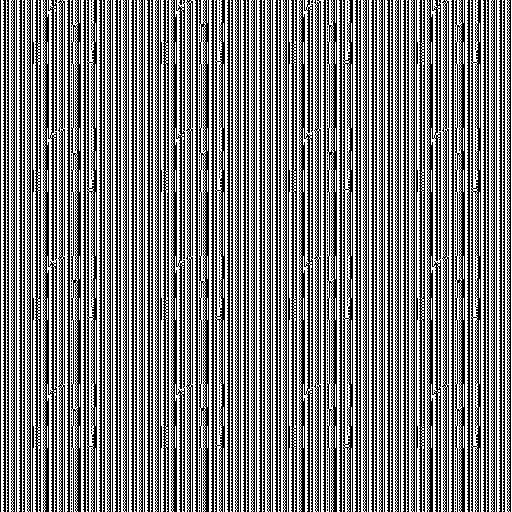
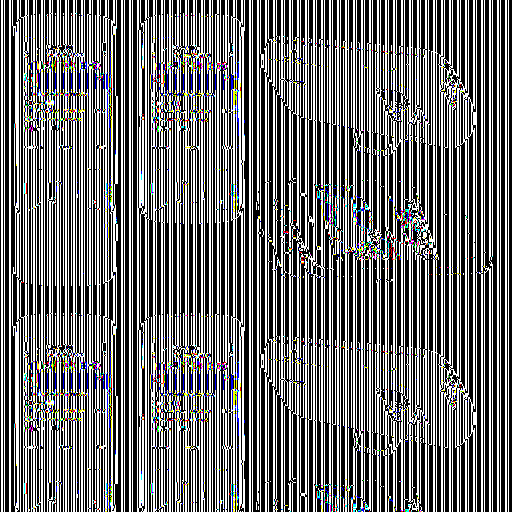
debugging encryption and decryption

diff --git a/Tubes1/src/tubes/ImageHelper.java b/Tubes1/src/tubes/ImageHelper.java
@@ -89,9 +89,7 @@ public class ImageHelper {
             }
         }
         Vigenere256 vig = new Vigenere256();
-        System.out.println(key);
         String plainteks = vig.decrypt(cipherteks,key);
-        System.out.println(plainteks);
         String bits="";
         for (int i = 0; i < plainteks.length(); i++) {
             bits+=String.format("%8s", Integer.toBinaryString(plainteks.charAt(i))).replace(' ', '0');
@@ -104,10 +102,10 @@ public class ImageHelper {
         for (int row = 0; row < pixels.length; row++) {
             for (int col = 0; col < pixels[row].length; col++) {
                 if(bits.charAt(init)=='1'){
-                    pixels[row][col] = 0;
+                    pixels[row][col] = 255;
                 }
                 else{
-                    pixels[row][col] = 255;
+                    pixels[row][col] = 0;
                 }
                 init++;
             }
@@ -154,11 +152,16 @@ public class ImageHelper {
                 init++;
             }
         }
+        System.out.println("init-1 : "+init);
         String cipherteks = vig.encrypt(plainteks,key);
-        System.out.println(plainteks);
+//        System.out.println(plainteks);
+//        System.out.println(vig.decrypt(cipherteks,key));
         String bits = "";
         for (int i = 0; i < cipherteks.length(); i++) {
-            bits+=String.format("%8s", Integer.toBinaryString(cipherteks.charAt(i))).replace(' ', '0');
+            String c = Integer.toBinaryString(cipherteks.charAt(i));
+            String padding ="0000000000000";
+            String cipher = padding + c;
+            bits+=cipher.substring(cipher.length()-8);
         }
         while(count<=7){
             bits+='0'+(temp[count]-48);
@@ -171,6 +174,8 @@ public class ImageHelper {
                 init++;
             }
         }
+        System.out.println("panjang bits : "+bits.length());
+        System.out.println("banyak pemasukkan : "+init);
     }
     
     public static void setPixels(BufferedImage img, int [][] newRedPixels, int [][] newGreenPixels, int [][] newBluePixels) {

diff --git a/Tubes1/src/algorithms/Vigenere256.java b/Tubes1/src/algorithms/Vigenere256.java
@@ -16,7 +16,7 @@ public class Vigenere256 {
         for (int i = 0; i < text.length(); i++) {
             if (helpers.Character.isAsciiCharacter(text.charAt(i))) {
                 int asciiCode = (int)text.charAt(i) + (int)(key.charAt(i % key.length()));
-                asciiCode %= 255;
+                asciiCode %= 256;
 
                 // Handle LF and CR
                 if (asciiCode == 10) {
@@ -44,8 +44,8 @@ public class Vigenere256 {
                    charAsciiCode = 13;
                 }
 
-                int asciiCode = charAsciiCode - (int)(key.charAt(i % key.length())) + 255;
-                result += (char)(asciiCode % 255);
+                int asciiCode = charAsciiCode - (int)(key.charAt(i % key.length())) + 256;
+                result += (char)(asciiCode % 256);
             } else {
                 result += text.charAt(i);
             }

diff --git a/Tubes1/src/tubes/Main.java b/Tubes1/src/tubes/Main.java
@@ -23,8 +23,8 @@ public class Main {
     public static void main(String[] args) throws IOException {        
         // TODO code application logic here
         BufferedImage img = ImageHelper.loadImage("Lenna.png"); // original
-        BufferedImage img2 = ImageHelper.loadImage("fblogo.png"); // watermark
-        String key = "busiri";
+        BufferedImage img2 = ImageHelper.loadImage("n86.jpg"); // watermark
+        String key = "i";
         // The following is used to check pixelBits
         System.out.println(img.getColorModel());
         
